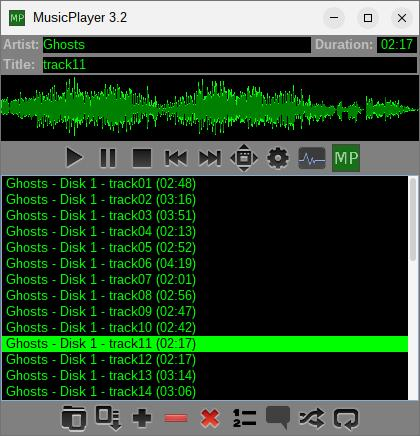
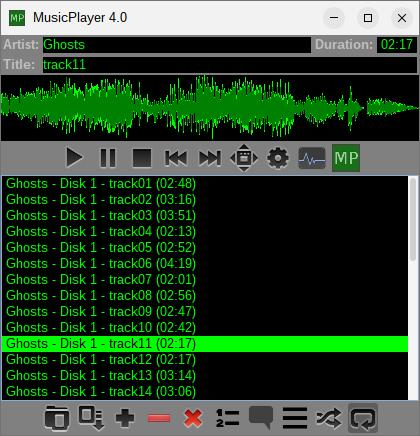
Final touches for v4.0 release!

Changed region(s): [[0.0, 0.1491, 1.0, 0.328], [0.0929, 0.9243, 0.8976, 1.0], [0.2476, 0.0298, 0.3095, 0.0596]]

diff --git a/src/main/java/ca/corbett/musicplayer/Version.java b/src/main/java/ca/corbett/musicplayer/Version.java
@@ -9,7 +9,7 @@ public final class Version {
     private static final AboutInfo aboutInfo;
 
     public static String NAME = "MusicPlayer";
-    public static String VERSION = "3.3";
+    public static String VERSION = "4.0";
     public static String FULL_NAME = NAME + " " + VERSION;
     public static String COPYRIGHT = "Copyright © 2017-2026 Steve Corbett";
     public static String PROJECT_URL = "https://github.com/scorbo2/musicplayer";
@@ -55,7 +55,7 @@ public final class Version {
     static {
         aboutInfo = new AboutInfo();
         aboutInfo.applicationName = NAME;
-        aboutInfo.applicationVersion = VERSION + "-SNAPSHOT"; // TODO remove SNAPSHOT before release
+        aboutInfo.applicationVersion = VERSION;
         aboutInfo.copyright = COPYRIGHT;
         aboutInfo.license = LICENSE;
         aboutInfo.projectUrl = PROJECT_URL;

diff --git a/src/main/java/ca/corbett/musicplayer/actions/LyricsEditAction.java b/src/main/java/ca/corbett/musicplayer/actions/LyricsEditAction.java
@@ -20,7 +20,7 @@ import java.util.logging.Logger;
  * An action to bring up the lyrics editor for the selected track in the playlist.
  *
  * @author <a href="https://github.com/scorbo2">scorbo2</a>
- * @since MusicPlayer 3.3
+ * @since MusicPlayer 4.0
  */
 public class LyricsEditAction extends EnhancedAction {
 

diff --git a/src/main/java/ca/corbett/musicplayer/ui/LyricsEditDialog.java b/src/main/java/ca/corbett/musicplayer/ui/LyricsEditDialog.java
@@ -11,7 +11,7 @@ import javax.swing.JDialog;
  * editing dialog, which will be used instead, if the extension is enabled.
  *
  * @author <a href="https://github.com/scorbo2">scorbo2</a>
- * @since MusicPlayer 3.3
+ * @since MusicPlayer 4.0
  */
 public abstract class LyricsEditDialog extends JDialog {
 

diff --git a/README.md b/README.md
@@ -2,7 +2,6 @@
 
 This is "MusicPlayer", a 100% Java music player with a UI written in Java Swing. 
 
-TODO update screenshot for 3.3 release
 ![MusicPlayer](docs/musicplayer.jpg "MusicPlayer")
 
 Features:
@@ -24,7 +23,7 @@ also used MusicPlayer as a testbed for my own app-extensions library
 so I could test out ways to make an application incredibly customizable via dynamically-loaded extensions. I also 
 wanted to prove out the `AppProperties` class from `app-extensions` to really demonstrate how to develop an extremely 
 customizable application while writing surprisingly little UI code (in the case of the properties dialog, and
-the extension manager, almost literally none). With version 3.0, I'm also using this application as a testbed
+the extension manager, almost literally none). Starting with version 3.0, I'm also using this application as a testbed
 for the new "dynamic extension discovery and download" feature from my swing-extras library. This allows
 users to download, install, and update extensions right from within the UI of the application, without having
 to clone, build, and install them manually. In the 3.1 release, MusicPlayer is the testbed for the new
@@ -35,11 +34,10 @@ with nice visualizations for my own personal use.
 
 ## How do I get it?
 
-You can download an installer tarball for Linux here: (TODO update tarball link and hashes for 3.3 release)
-- [http://www.corbett.ca/apps/MusicPlayer-3.2.tar.gz](http://www.corbett.ca/apps/MusicPlayer-3.2.tar.gz)
+You can download an installer tarball for Linux here:
+- [http://www.corbett.ca/apps/MusicPlayer-4.0.tar.gz](http://www.corbett.ca/apps/MusicPlayer-4.0.tar.gz)
 - Size: 23MB
-- SHA-1: `9a1f937eca69df53bccb0089579f09e3882c9066`
[2 lines of base64/hex data omitted]
 
 Alternatively, you can clone the repo and build the project locally:
 
@@ -48,7 +46,7 @@ git clone https://github.com/scorbo2/musicplayer.git
 cd musicplayer
 mvn package
 cd target
-java -jar musicplayer-3.3.jar # Launch the application manually
+java -jar musicplayer-4.0.jar # Launch the application manually
 ```
 
 If you have my [make-installer](https://github.com/scorbo2/install-scripts/) scripts installed and you are building